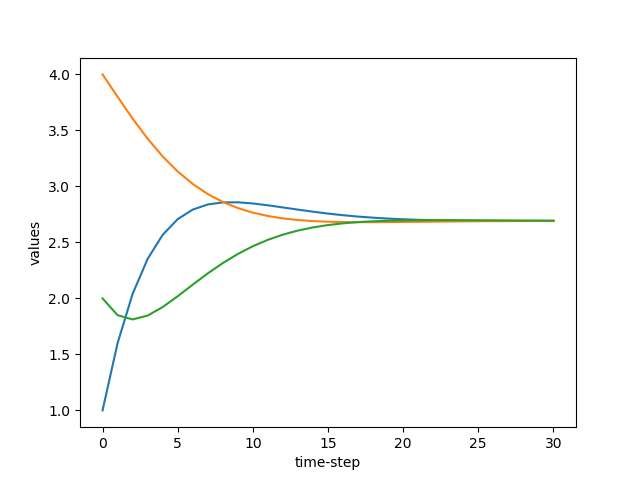
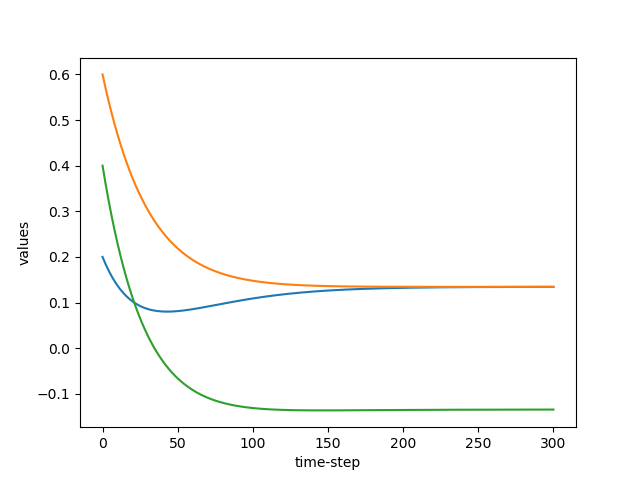
update before spring festival

diff --git a/week_6/interval_bipartite_consensus.py b/week_6/interval_bipartite_consensus.py
@@ -27,20 +27,20 @@ def get_in_neighbors(node, in_edge):
     return in_neighbors
 
 # 获取一个图的邻接矩阵
-# def get_adj_mat(graph):
-#     """
-#     get the adjacency matrix
-#     :param graph:
-#     :return:
-#     """
-#     size = len(graph.nodes())
-#     matrix = np.zeros(shape=(size, size), dtype=np.float)
+def get_adj_mat(graph):
+    """
+    get the adjacency matrix
+    :param graph:
+    :return:
+    """
+    size = len(graph.nodes())
+    matrix = np.zeros(shape=(size, size), dtype=np.float)
 
-#     for edge in graph.edges(data=True):
-#         matrix[edge[0] - 1][edge[1] - 1] = edge[2]['weight']
-#         matrix[edge[1] - 1][edge[0] - 1] = edge[2]['weight']
+    for edge in graph.edges(data=True):
+        matrix[edge[0] - 1][edge[1] - 1] = edge[2]['weight']
+        matrix[edge[1] - 1][edge[0] - 1] = edge[2]['weight']
 
-#     return matrix
+    return matrix
 
 
 def interval_bipartite_consensus(graph_no):
@@ -75,6 +75,20 @@ def interval_bipartite_consensus(graph_no):
 
     X = [[1], [2], [3], [-2], [-1], [-6]]
     y = 0.02
+
+    adj_graph_1 = get_adj_mat(graph)
+    diagnal_matrix = []
+    for i in range(len(adj_graph_1)):
+        sum = 0
+        for j in range(len(adj_graph_1)):
+            sum += abs(adj_graph_1[i][j])
+        diagnal_matrix.append(sum)
+    diagnal_matrix = np.mat(np.diag(diagnal_matrix))
+
+    L = diagnal_matrix - adj_graph_1
+    print("Linear")
+    print(np.linalg.eig(L))
+    print("Linear")
 
     '''start interaction'''
     for time_step in range(200):

diff --git a/week_6/matrix_multiply_test.py b/week_6/matrix_multiply_test.py
@@ -3,16 +3,25 @@ import numpy as np
 import random
 import matplotlib.pyplot as plt
 
-L = np.mat(np.array([1, -1, 0, 0, 1.5, -1.5, -2, 0, 2]).reshape(3, 3))
-X = np.mat(np.array([4, 2, 1]).reshape(3, 1))
+# L = np.mat(np.array([1, -1, 0, 0, 1.5, -1.5, -2, 0, 2]).reshape(3, 3))
+L = np.mat(np.array([1, 0.6, -0.4, 1, 1, 0, -0.2, 0.8, 1]).reshape(3, 3))
+X = np.mat(np.array([0.6, 0.4, 0.2]).reshape(3, 1))
 
-X1 = [[4], [2], [1]]
+print(L)
 
-for i in range(30):
-    X = X + 0.1 * (-L) * X
+a = np.round(np.linalg.eigvals(L))
+
+print(a)
+
+X1 = [[0.6], [0.4], [0.2]]
+
+for i in range(300):
+    X = X + 0.02 * (-L) * X
     for i in range(3):
         X1[i].append(X[i])
-x_axis = range(31)
+
+# print(X1)
+x_axis = range(301)
 plt.xlabel("time-step")
 plt.ylabel("values")
 for i in range(3):

diff --git a/week_5/modulus_consensus.py b/week_5/modulus_consensus.py
@@ -110,7 +110,7 @@ def get_adj_mat(graph):
     return matrix
 
 
-def drawGraph(fg, name):
+def draw_graph(fg, name):
     """
     (2, 2)-robustness => (2, 1)-robustness => 2-robustness
     :param fg: 
@@ -158,7 +158,7 @@ def ftc_cai(data_path, fig_name, fig_path, graph_name):
     # graph = create_graph(data_path=data_path)
     matrix = get_adj_mat(graph=graph)
 
-    drawGraph(graph, graph_name)
+    draw_graph(graph, graph_name)
 
     print(matrix)
     for time_step in range(10000):
